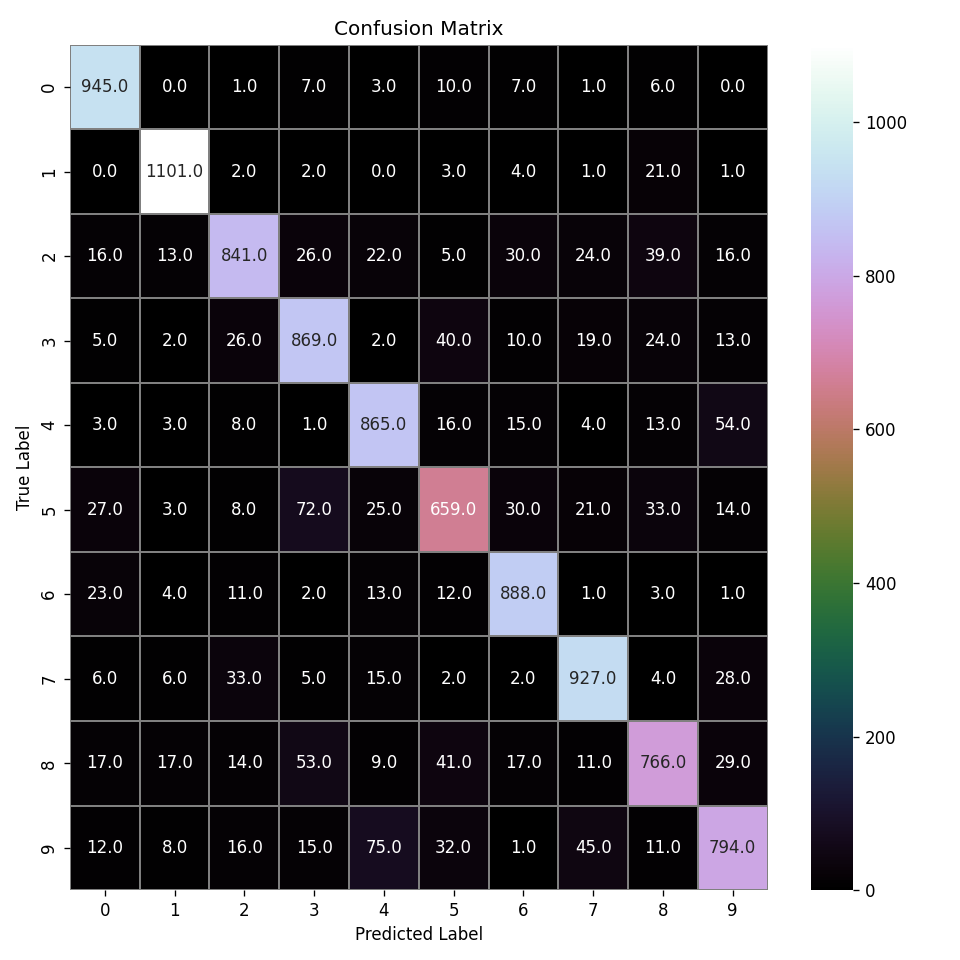
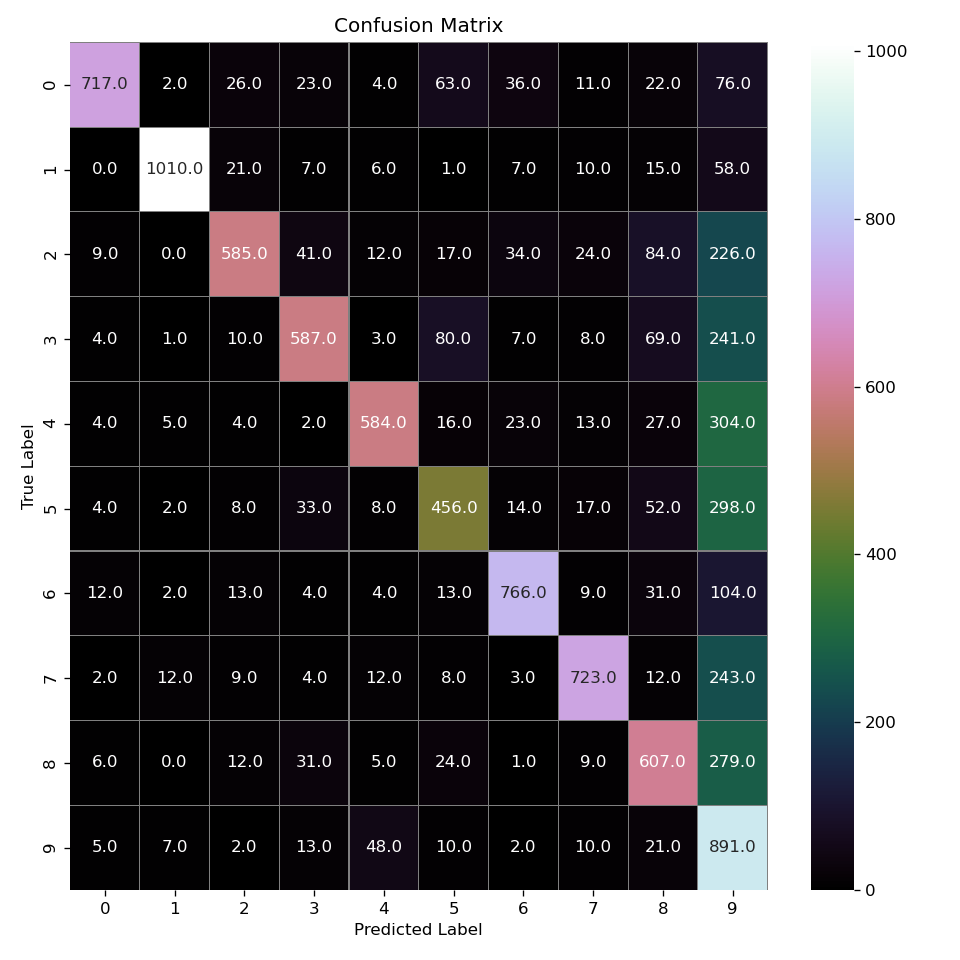
Added Decision Tree with PCA 30

diff --git a/code/train_model.py b/code/train_model.py
@@ -4,7 +4,7 @@ Train classification model for MNIST
 import json
 import pickle
 import numpy as np
-from sklearn.svm import SVC
+from sklearn.tree import DecisionTreeClassifier
 from sklearn.multiclass import OneVsRestClassifier
 import time
 
@@ -34,7 +34,7 @@ def train_model():
 
     # Defining SVM classifier and train model
     print("Training model...")
-    model = OneVsRestClassifier(SVC(kernel='linear'), n_jobs=6)
+    model = OneVsRestClassifier(DecisionTreeClassifier(), n_jobs=50)
     model.fit(data, labels)
     print("done.")
 

diff --git a/code/featurization.py b/code/featurization.py
@@ -15,9 +15,9 @@ def featurization():
     test_data = pd.read_csv('./data/test_data.csv', header=None, dtype=float).values
     print("done.")
 
-    # Creating PCA object of the 15 most important components
+    # Creating PCA object of the 30 most important components
     print("Creating PCA object...")
-    pca = PCA(n_components=20, whiten=True)
+    pca = PCA(n_components=30, whiten=True)
     pca.fit(train_data[:, 1:])
 
     train_labels = train_data[:, 0].reshape([train_data.shape[0], 1])
